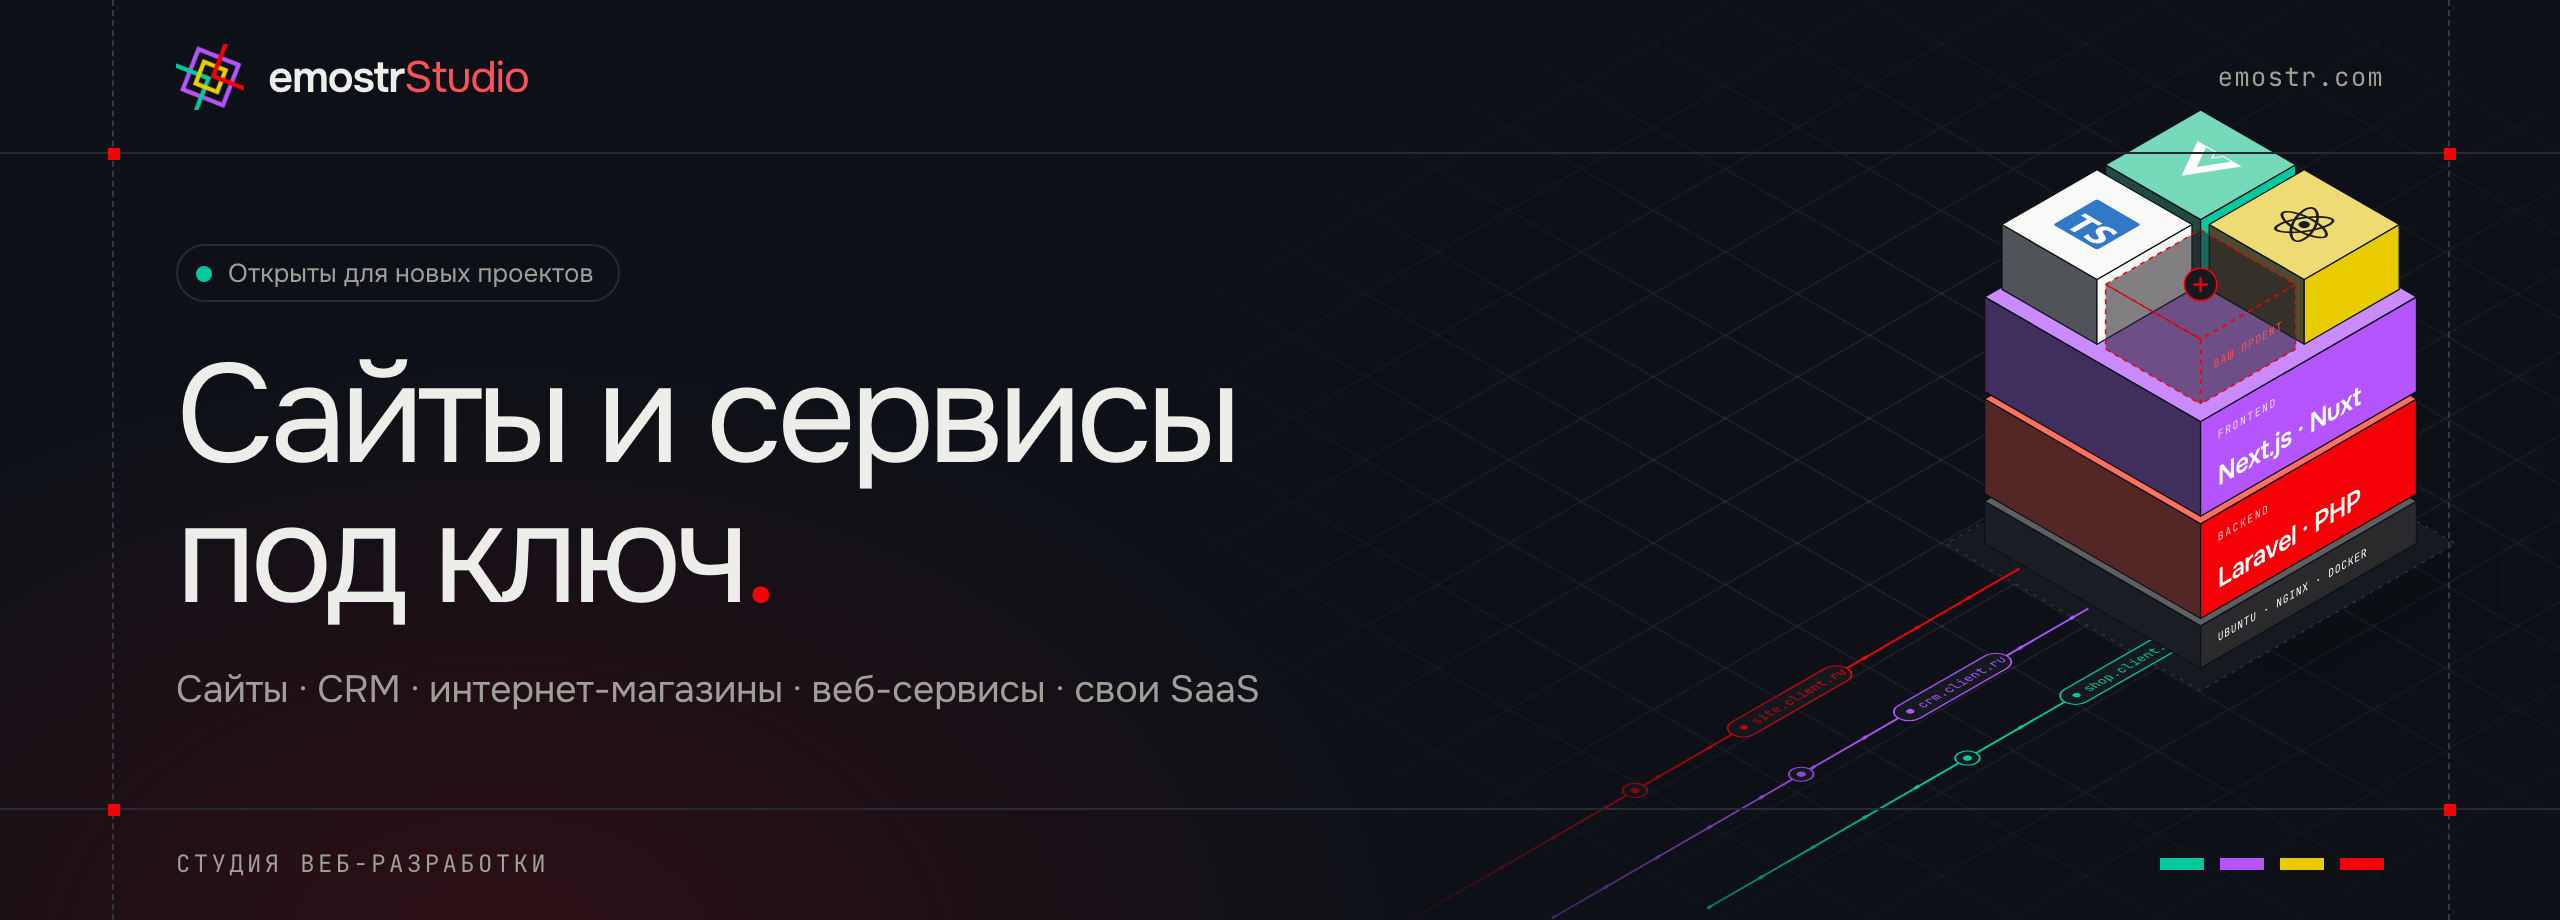
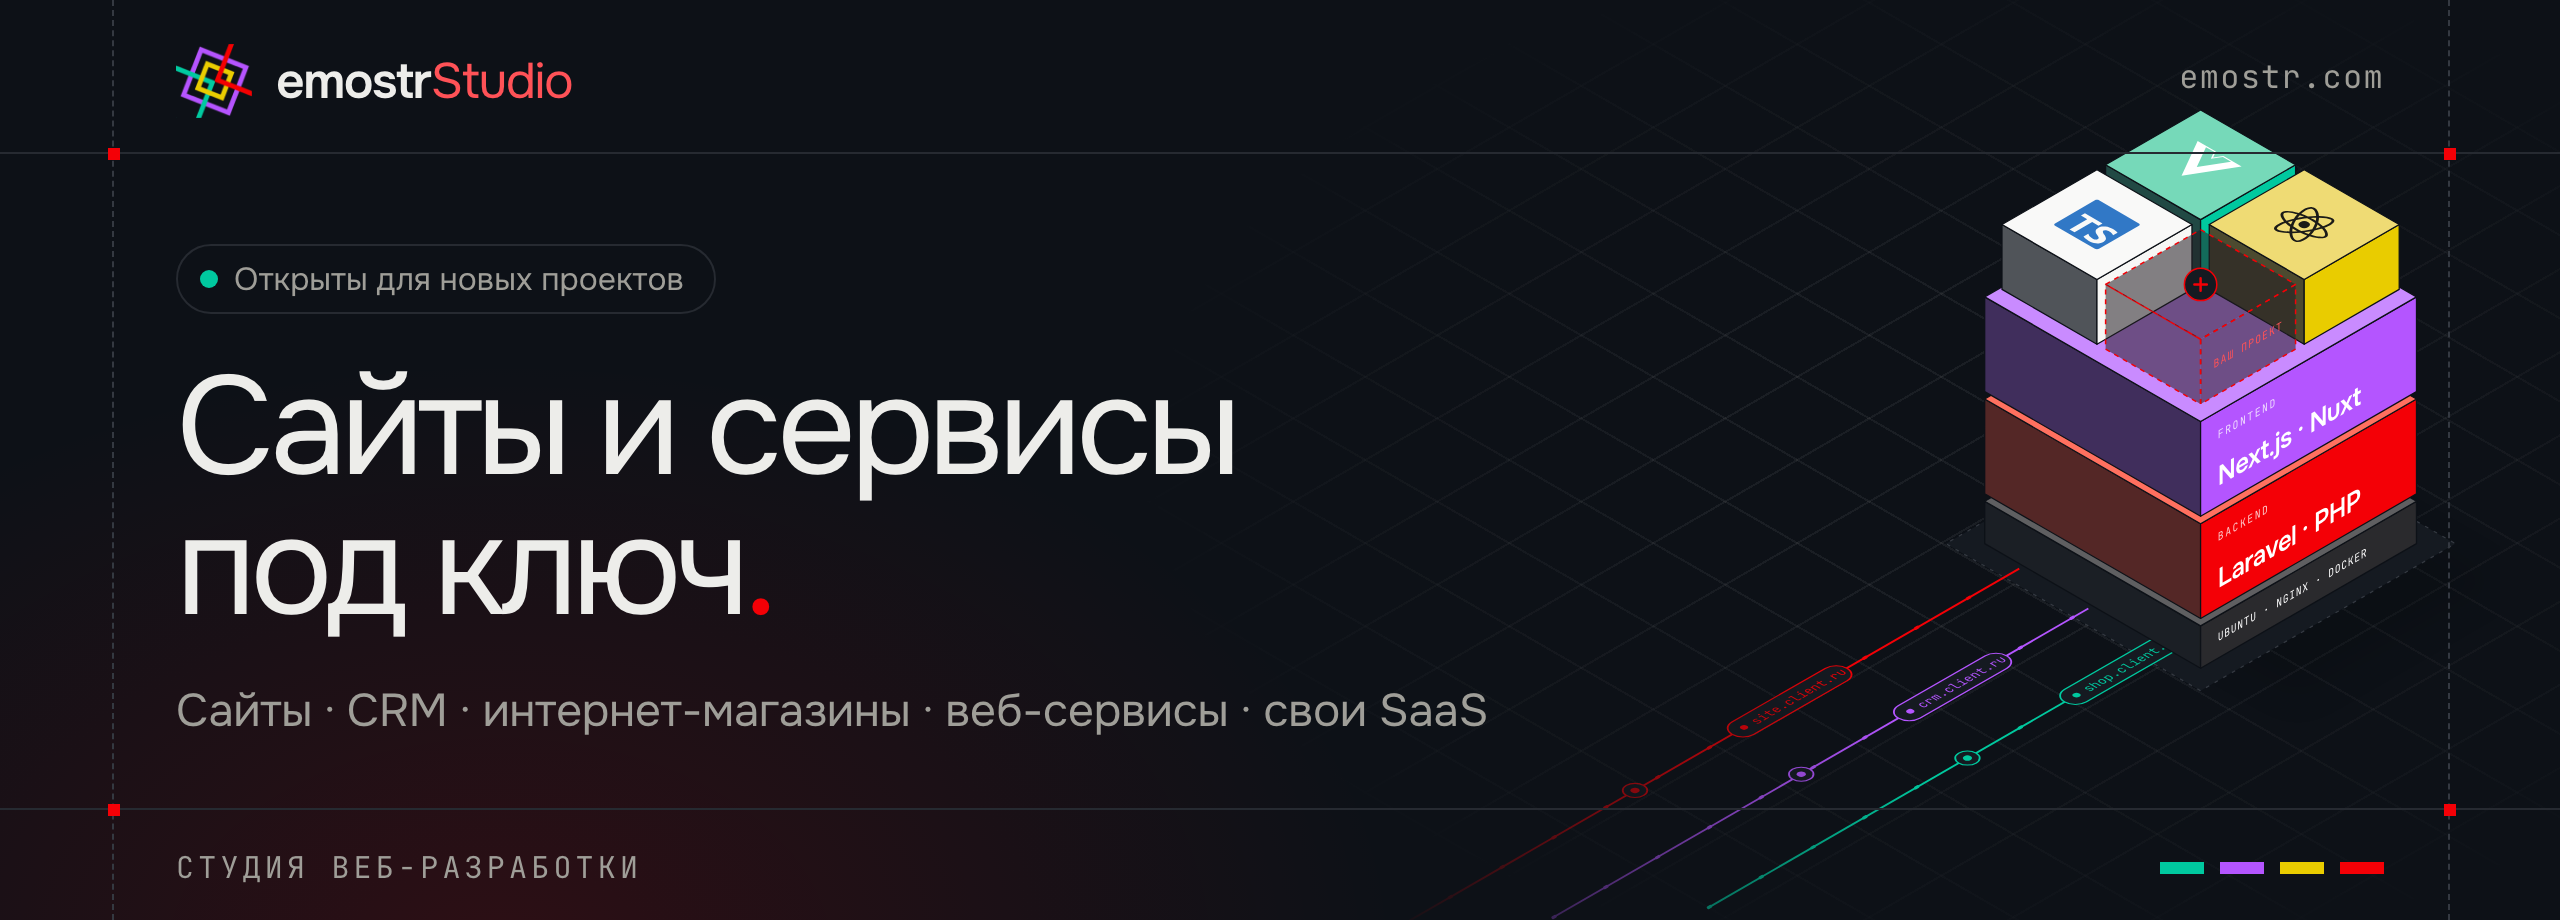
Профиль: крупнее подписи в баннере, список репозиториев

diff --git a/profile/README.md b/profile/README.md
@@ -51,9 +51,7 @@
 
 ## Репозитории
 
-| | |
-| :-- | :-- |
-| [**website**](https://github.com/emostrStudio/website) | Сайт [emostr.com](https://emostr.com): Next.js 16, TypeScript 7, Tailwind CSS 4, деплой на Ubuntu + NGINX через GitHub Actions |
+- [**website**](https://github.com/emostrStudio/website) — сайт [emostr.com](https://emostr.com): Next.js 16, TypeScript 7, Tailwind CSS 4, деплой на Ubuntu + NGINX через GitHub Actions
 
 <br>
 
